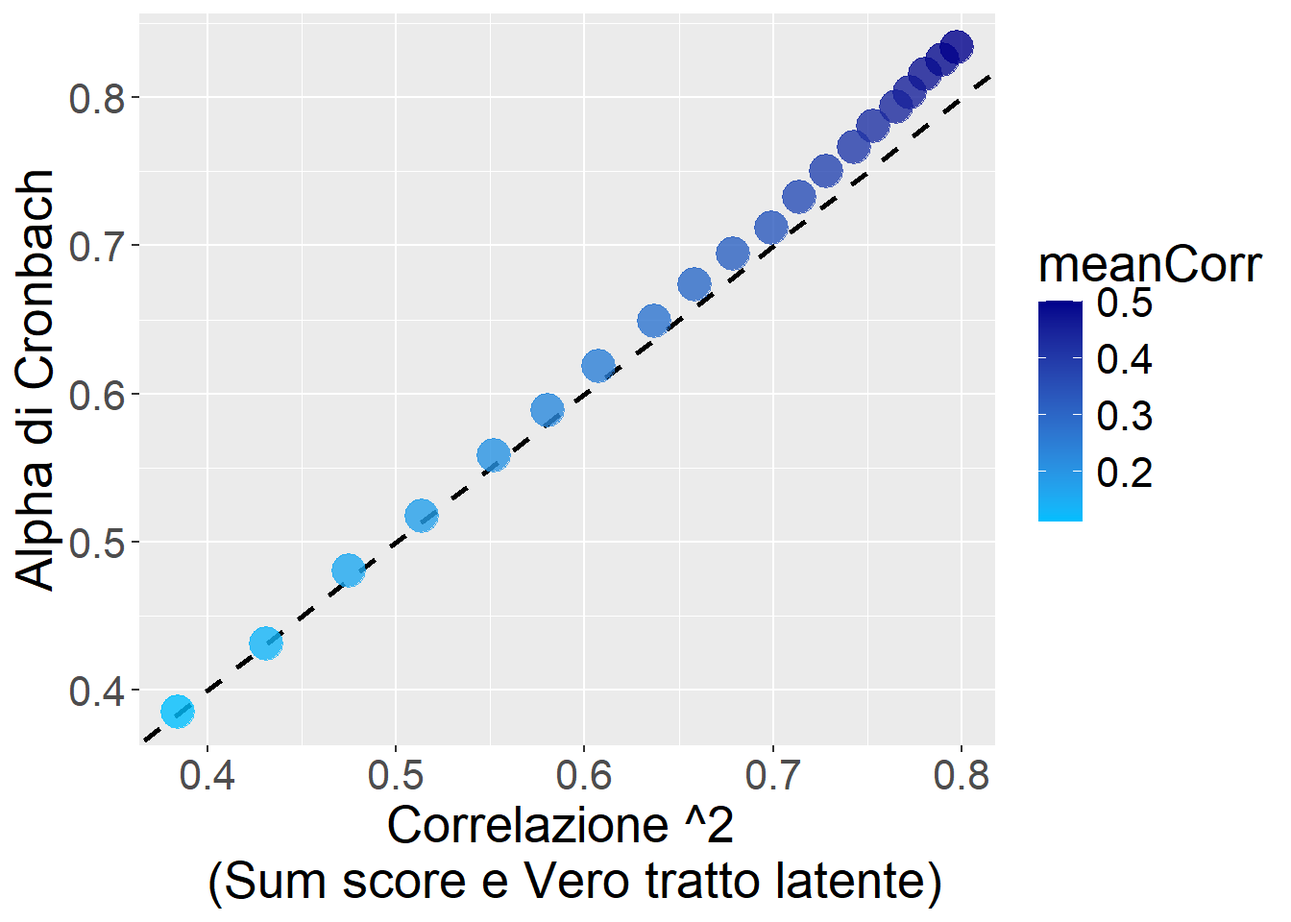
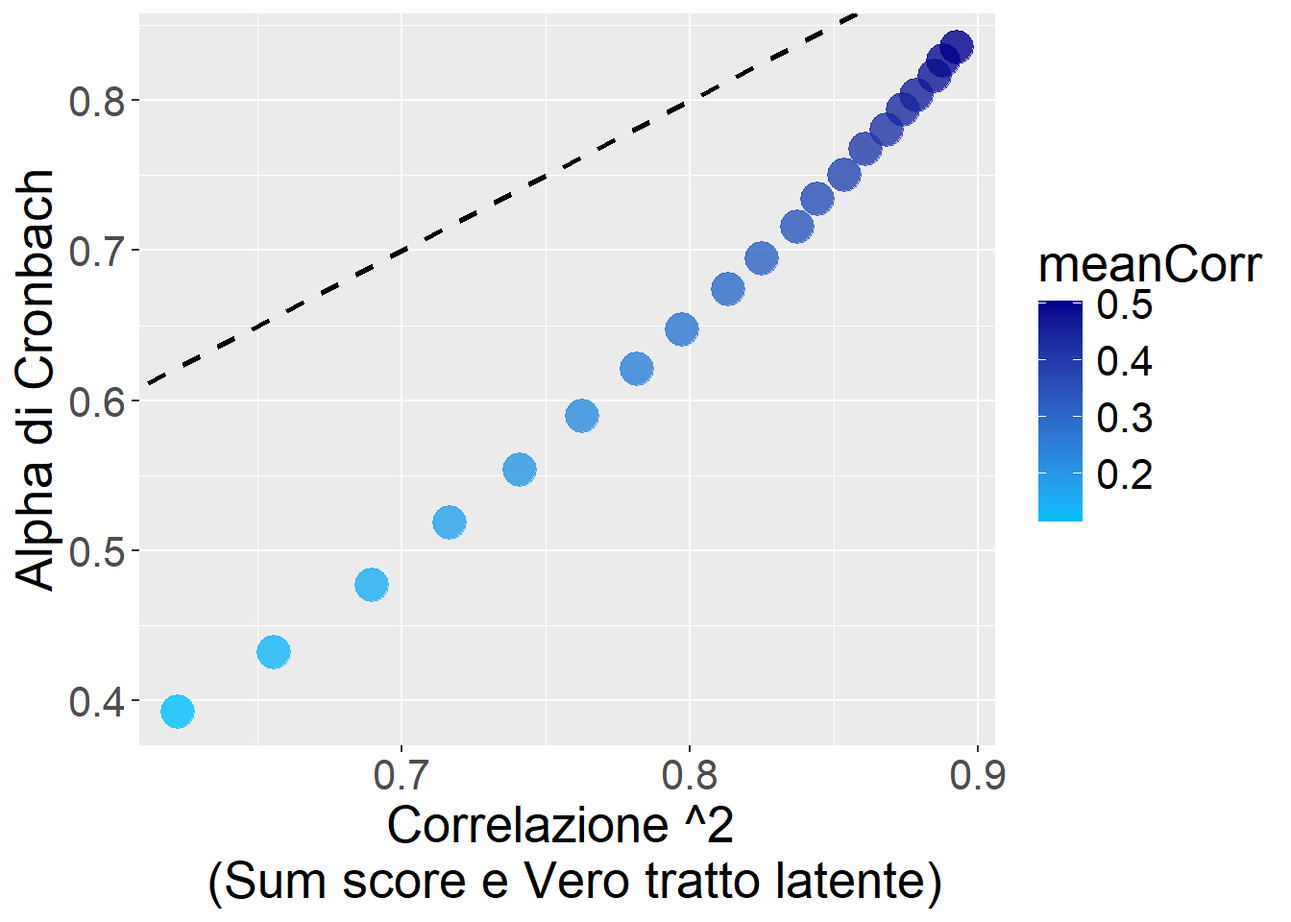
update

diff --git a/alpha/alphaOrdinal.html b/alpha/alphaOrdinal.html
@@ -141,51 +141,83 @@ pre > code.sourceCode > span > a:first-child::before { text-decoration: underlin
 <section id="possiamo-ignorare-la-natura-ordinale-degli-item" class="level2">
 <h2 class="anchored" data-anchor-id="possiamo-ignorare-la-natura-ordinale-degli-item">Possiamo ignorare la natura ordinale degli item?</h2>
 <p>Possiamo utilizzare il semplice Alpha di Cronbach, così com’è, anche sui dati ordinali? Poniamo che quelle sopra siano davvero le <em>thresholds</em>. Poniamo di avere k = 5 item con un continuum sottostante variamente correlato (vedi figura sotto).</p>
-<p>Come si vede dal grafico, anche trascurando del tutto la natura ordinale degli item, l’Alpha di Cronbach non va poi così male: sovrastima un po’ per i valori più alti, ma riflette abbastanza bene l’effettiva correlazione tra il <em>Sum score</em> (col <em>Factor score</em> è più o meno uguale) e il <em>Vero tratto latente</em>.</p>
+<p>Come si vede dal grafico, anche trascurando del tutto la natura ordinale degli item, apparentemente l’Alpha di Cronbach non va così male: sovrastima un po’ per i valori più alti, ma riflette abbastanza bene l’effettiva correlazione tra il <em>Sum score dei dati ordinali</em> e il <em>Vero tratto latente</em>.</p>
 <div class="cell">
 <details class="code-fold">
 <summary>Show the code</summary>
 <div class="sourceCode cell-code" id="cb1"><pre class="sourceCode r code-with-copy"><code class="sourceCode r"><span id="cb1-1"><a href="#cb1-1" aria-hidden="true" tabindex="-1"></a><span class="fu">library</span>(lavaan)</span>
 <span id="cb1-2"><a href="#cb1-2" aria-hidden="true" tabindex="-1"></a><span class="fu">library</span>(psych)</span>
 <span id="cb1-3"><a href="#cb1-3" aria-hidden="true" tabindex="-1"></a>meanLoad <span class="ot">=</span> <span class="fu">seq</span>(.<span class="dv">4</span>,<span class="fl">1.2</span>,<span class="at">length.out=</span><span class="dv">20</span>)</span>
-<span id="cb1-4"><a href="#cb1-4" aria-hidden="true" tabindex="-1"></a>res1 <span class="ot">=</span> <span class="fu">data.frame</span>(<span class="at">meanLoad=</span>meanLoad,<span class="at">meanCorr=</span><span class="cn">NA</span>,<span class="at">AlphaCronbach=</span><span class="cn">NA</span>,<span class="at">VarVera=</span><span class="cn">NA</span>)</span>
-<span id="cb1-5"><a href="#cb1-5" aria-hidden="true" tabindex="-1"></a><span class="cf">for</span>(i <span class="cf">in</span> <span class="dv">1</span><span class="sc">:</span><span class="fu">nrow</span>(res1)){</span>
-<span id="cb1-6"><a href="#cb1-6" aria-hidden="true" tabindex="-1"></a>  </span>
-<span id="cb1-7"><a href="#cb1-7" aria-hidden="true" tabindex="-1"></a>  N <span class="ot">=</span> <span class="fl">1e5</span></span>
-<span id="cb1-8"><a href="#cb1-8" aria-hidden="true" tabindex="-1"></a>  X_true <span class="ot">=</span> <span class="fu">rnorm</span>(N,<span class="dv">0</span>,<span class="dv">1</span>)</span>
-<span id="cb1-9"><a href="#cb1-9" aria-hidden="true" tabindex="-1"></a>  </span>
-<span id="cb1-10"><a href="#cb1-10" aria-hidden="true" tabindex="-1"></a>  X1 <span class="ot">=</span> <span class="fu">scale</span>(res1<span class="sc">$</span>meanLoad[i]<span class="sc">*</span>X_true <span class="sc">+</span> <span class="fu">rnorm</span>(N,<span class="dv">0</span>,<span class="dv">1</span>))</span>
-<span id="cb1-11"><a href="#cb1-11" aria-hidden="true" tabindex="-1"></a>  X2 <span class="ot">=</span> <span class="fu">scale</span>(res1<span class="sc">$</span>meanLoad[i]<span class="sc">*</span>X_true <span class="sc">+</span> <span class="fu">rnorm</span>(N,<span class="dv">0</span>,<span class="dv">1</span>))</span>
-<span id="cb1-12"><a href="#cb1-12" aria-hidden="true" tabindex="-1"></a>  X3 <span class="ot">=</span> <span class="fu">scale</span>(res1<span class="sc">$</span>meanLoad[i]<span class="sc">*</span>X_true <span class="sc">+</span> <span class="fu">rnorm</span>(N,<span class="dv">0</span>,<span class="dv">1</span>))</span>
-<span id="cb1-13"><a href="#cb1-13" aria-hidden="true" tabindex="-1"></a>  X4 <span class="ot">=</span> <span class="fu">scale</span>(res1<span class="sc">$</span>meanLoad[i]<span class="sc">*</span>X_true <span class="sc">+</span> <span class="fu">rnorm</span>(N,<span class="dv">0</span>,<span class="dv">1</span>))</span>
-<span id="cb1-14"><a href="#cb1-14" aria-hidden="true" tabindex="-1"></a>  X5 <span class="ot">=</span> <span class="fu">scale</span>(res1<span class="sc">$</span>meanLoad[i]<span class="sc">*</span>X_true <span class="sc">+</span> <span class="fu">rnorm</span>(N,<span class="dv">0</span>,<span class="dv">1</span>))</span>
-<span id="cb1-15"><a href="#cb1-15" aria-hidden="true" tabindex="-1"></a>  </span>
-<span id="cb1-16"><a href="#cb1-16" aria-hidden="true" tabindex="-1"></a>  x1 <span class="ot">=</span> <span class="fu">as.numeric</span>(<span class="fu">cut</span>(X1,<span class="at">breaks=</span><span class="fu">c</span>(<span class="sc">-</span><span class="cn">Inf</span>,<span class="sc">-</span><span class="fl">0.2</span>,<span class="fl">0.2</span>,<span class="fl">1.2</span>,<span class="cn">Inf</span>),<span class="at">labels=</span><span class="fu">c</span>(<span class="dv">1</span>,<span class="dv">2</span>,<span class="dv">3</span>,<span class="dv">4</span>)))</span>
-<span id="cb1-17"><a href="#cb1-17" aria-hidden="true" tabindex="-1"></a>  x2 <span class="ot">=</span> <span class="fu">as.numeric</span>(<span class="fu">cut</span>(X2,<span class="at">breaks=</span><span class="fu">c</span>(<span class="sc">-</span><span class="cn">Inf</span>,<span class="sc">-</span><span class="fl">0.2</span>,<span class="fl">0.2</span>,<span class="fl">1.2</span>,<span class="cn">Inf</span>),<span class="at">labels=</span><span class="fu">c</span>(<span class="dv">1</span>,<span class="dv">2</span>,<span class="dv">3</span>,<span class="dv">4</span>)))</span>
-<span id="cb1-18"><a href="#cb1-18" aria-hidden="true" tabindex="-1"></a>  x3 <span class="ot">=</span> <span class="fu">as.numeric</span>(<span class="fu">cut</span>(X3,<span class="at">breaks=</span><span class="fu">c</span>(<span class="sc">-</span><span class="cn">Inf</span>,<span class="sc">-</span><span class="fl">0.2</span>,<span class="fl">0.2</span>,<span class="fl">1.2</span>,<span class="cn">Inf</span>),<span class="at">labels=</span><span class="fu">c</span>(<span class="dv">1</span>,<span class="dv">2</span>,<span class="dv">3</span>,<span class="dv">4</span>)))</span>
-<span id="cb1-19"><a href="#cb1-19" aria-hidden="true" tabindex="-1"></a>  x4 <span class="ot">=</span> <span class="fu">as.numeric</span>(<span class="fu">cut</span>(X4,<span class="at">breaks=</span><span class="fu">c</span>(<span class="sc">-</span><span class="cn">Inf</span>,<span class="sc">-</span><span class="fl">0.2</span>,<span class="fl">0.2</span>,<span class="fl">1.2</span>,<span class="cn">Inf</span>),<span class="at">labels=</span><span class="fu">c</span>(<span class="dv">1</span>,<span class="dv">2</span>,<span class="dv">3</span>,<span class="dv">4</span>)))</span>
-<span id="cb1-20"><a href="#cb1-20" aria-hidden="true" tabindex="-1"></a>  x5 <span class="ot">=</span> <span class="fu">as.numeric</span>(<span class="fu">cut</span>(X5,<span class="at">breaks=</span><span class="fu">c</span>(<span class="sc">-</span><span class="cn">Inf</span>,<span class="sc">-</span><span class="fl">0.2</span>,<span class="fl">0.2</span>,<span class="fl">1.2</span>,<span class="cn">Inf</span>),<span class="at">labels=</span><span class="fu">c</span>(<span class="dv">1</span>,<span class="dv">2</span>,<span class="dv">3</span>,<span class="dv">4</span>)))</span>
+<span id="cb1-4"><a href="#cb1-4" aria-hidden="true" tabindex="-1"></a>res1 <span class="ot">=</span> <span class="fu">data.frame</span>(<span class="at">meanLoad=</span>meanLoad,</span>
+<span id="cb1-5"><a href="#cb1-5" aria-hidden="true" tabindex="-1"></a>                  <span class="at">meanCorr=</span><span class="cn">NA</span>,</span>
+<span id="cb1-6"><a href="#cb1-6" aria-hidden="true" tabindex="-1"></a>                  <span class="at">AlphaCronbach=</span><span class="cn">NA</span>,</span>
+<span id="cb1-7"><a href="#cb1-7" aria-hidden="true" tabindex="-1"></a>                  <span class="at">AlphaCronbachPolyc=</span><span class="cn">NA</span>,</span>
+<span id="cb1-8"><a href="#cb1-8" aria-hidden="true" tabindex="-1"></a>                  <span class="at">VarVera=</span><span class="cn">NA</span>,</span>
+<span id="cb1-9"><a href="#cb1-9" aria-hidden="true" tabindex="-1"></a>                  <span class="at">VarOrd=</span><span class="cn">NA</span>)</span>
+<span id="cb1-10"><a href="#cb1-10" aria-hidden="true" tabindex="-1"></a><span class="cf">for</span>(i <span class="cf">in</span> <span class="dv">1</span><span class="sc">:</span><span class="fu">nrow</span>(res1)){</span>
+<span id="cb1-11"><a href="#cb1-11" aria-hidden="true" tabindex="-1"></a>  </span>
+<span id="cb1-12"><a href="#cb1-12" aria-hidden="true" tabindex="-1"></a>  N <span class="ot">=</span> <span class="fl">1e5</span></span>
+<span id="cb1-13"><a href="#cb1-13" aria-hidden="true" tabindex="-1"></a>  X_true <span class="ot">=</span> <span class="fu">rnorm</span>(N,<span class="dv">0</span>,<span class="dv">1</span>)</span>
+<span id="cb1-14"><a href="#cb1-14" aria-hidden="true" tabindex="-1"></a>  </span>
+<span id="cb1-15"><a href="#cb1-15" aria-hidden="true" tabindex="-1"></a>  X1 <span class="ot">=</span> <span class="fu">scale</span>(res1<span class="sc">$</span>meanLoad[i]<span class="sc">*</span>X_true <span class="sc">+</span> <span class="fu">rnorm</span>(N,<span class="dv">0</span>,<span class="dv">1</span>))</span>
+<span id="cb1-16"><a href="#cb1-16" aria-hidden="true" tabindex="-1"></a>  X2 <span class="ot">=</span> <span class="fu">scale</span>(res1<span class="sc">$</span>meanLoad[i]<span class="sc">*</span>X_true <span class="sc">+</span> <span class="fu">rnorm</span>(N,<span class="dv">0</span>,<span class="dv">1</span>))</span>
+<span id="cb1-17"><a href="#cb1-17" aria-hidden="true" tabindex="-1"></a>  X3 <span class="ot">=</span> <span class="fu">scale</span>(res1<span class="sc">$</span>meanLoad[i]<span class="sc">*</span>X_true <span class="sc">+</span> <span class="fu">rnorm</span>(N,<span class="dv">0</span>,<span class="dv">1</span>))</span>
+<span id="cb1-18"><a href="#cb1-18" aria-hidden="true" tabindex="-1"></a>  X4 <span class="ot">=</span> <span class="fu">scale</span>(res1<span class="sc">$</span>meanLoad[i]<span class="sc">*</span>X_true <span class="sc">+</span> <span class="fu">rnorm</span>(N,<span class="dv">0</span>,<span class="dv">1</span>))</span>
+<span id="cb1-19"><a href="#cb1-19" aria-hidden="true" tabindex="-1"></a>  X5 <span class="ot">=</span> <span class="fu">scale</span>(res1<span class="sc">$</span>meanLoad[i]<span class="sc">*</span>X_true <span class="sc">+</span> <span class="fu">rnorm</span>(N,<span class="dv">0</span>,<span class="dv">1</span>))</span>
+<span id="cb1-20"><a href="#cb1-20" aria-hidden="true" tabindex="-1"></a>  res1<span class="sc">$</span>VarVera[i] <span class="ot">=</span> <span class="fu">cor</span>(<span class="fu">rowSums</span>(<span class="fu">cbind</span>(X1,X2,X3,X4,X5)),X_true)<span class="sc">^</span><span class="dv">2</span></span>
 <span id="cb1-21"><a href="#cb1-21" aria-hidden="true" tabindex="-1"></a>  </span>
-<span id="cb1-22"><a href="#cb1-22" aria-hidden="true" tabindex="-1"></a>  df <span class="ot">=</span> <span class="fu">data.frame</span>(x1,x2,x3,x4,x5)</span>
-<span id="cb1-23"><a href="#cb1-23" aria-hidden="true" tabindex="-1"></a>  res1<span class="sc">$</span>meanCorr[i] <span class="ot">=</span> <span class="fu">mean</span>(<span class="fu">cor</span>(df)[<span class="fu">lower.tri</span>(<span class="fu">cor</span>(df))])</span>
-<span id="cb1-24"><a href="#cb1-24" aria-hidden="true" tabindex="-1"></a>  <span class="co">#model = "X_latent =~ x1+x2+x3+x4+x5"</span></span>
-<span id="cb1-25"><a href="#cb1-25" aria-hidden="true" tabindex="-1"></a>  <span class="co">#fit = cfa(model, df)</span></span>
-<span id="cb1-26"><a href="#cb1-26" aria-hidden="true" tabindex="-1"></a>  res1<span class="sc">$</span>AlphaCronbach[i] <span class="ot">=</span> psych<span class="sc">::</span><span class="fu">alpha</span>(df)<span class="sc">$</span>total<span class="sc">$</span>raw_alpha</span>
-<span id="cb1-27"><a href="#cb1-27" aria-hidden="true" tabindex="-1"></a>  res1<span class="sc">$</span>VarVera[i] <span class="ot">=</span> <span class="fu">cor</span>(<span class="fu">rowSums</span>(df),X_true)<span class="sc">^</span><span class="dv">2</span></span>
-<span id="cb1-28"><a href="#cb1-28" aria-hidden="true" tabindex="-1"></a>}</span>
-<span id="cb1-29"><a href="#cb1-29" aria-hidden="true" tabindex="-1"></a></span>
-<span id="cb1-30"><a href="#cb1-30" aria-hidden="true" tabindex="-1"></a><span class="fu">ggplot</span>(res1,<span class="fu">aes</span>(<span class="at">x=</span>VarVera,<span class="at">y=</span>AlphaCronbach,<span class="at">color=</span>meanCorr))<span class="sc">+</span></span>
-<span id="cb1-31"><a href="#cb1-31" aria-hidden="true" tabindex="-1"></a>  <span class="fu">geom_abline</span>(<span class="at">slope =</span> <span class="dv">1</span>, <span class="at">intercept =</span> <span class="dv">0</span>, <span class="at">linetype =</span> <span class="st">"dashed"</span>, <span class="at">size=</span><span class="dv">1</span>)<span class="sc">+</span></span>
-<span id="cb1-32"><a href="#cb1-32" aria-hidden="true" tabindex="-1"></a>  <span class="fu">scale_color_gradient</span>(<span class="at">low =</span> <span class="st">"deepskyblue"</span>, <span class="at">high =</span> <span class="st">"blue4"</span>)<span class="sc">+</span></span>
-<span id="cb1-33"><a href="#cb1-33" aria-hidden="true" tabindex="-1"></a>  <span class="fu">geom_point</span>(<span class="at">size=</span><span class="dv">6</span>,<span class="at">alpha=</span>.<span class="dv">8</span>)<span class="sc">+</span></span>
-<span id="cb1-34"><a href="#cb1-34" aria-hidden="true" tabindex="-1"></a>  <span class="fu">theme</span>(<span class="at">text=</span><span class="fu">element_text</span>(<span class="at">size=</span><span class="dv">20</span>))<span class="sc">+</span></span>
-<span id="cb1-35"><a href="#cb1-35" aria-hidden="true" tabindex="-1"></a>  <span class="fu">xlab</span>(<span class="st">"Correlazione ^2 </span><span class="sc">\n</span><span class="st"> (Sum score e Vero tratto latente)"</span>)<span class="sc">+</span></span>
-<span id="cb1-36"><a href="#cb1-36" aria-hidden="true" tabindex="-1"></a>  <span class="fu">ylab</span>(<span class="st">"Alpha di Cronbach"</span>)</span></code><button title="Copy to Clipboard" class="code-copy-button"><i class="bi"></i></button></pre></div>
+<span id="cb1-22"><a href="#cb1-22" aria-hidden="true" tabindex="-1"></a>  x1 <span class="ot">=</span> <span class="fu">as.numeric</span>(<span class="fu">cut</span>(X1,<span class="at">breaks=</span><span class="fu">c</span>(<span class="sc">-</span><span class="cn">Inf</span>,<span class="sc">-</span><span class="fl">0.2</span>,<span class="fl">0.2</span>,<span class="fl">1.2</span>,<span class="cn">Inf</span>),<span class="at">labels=</span><span class="fu">c</span>(<span class="dv">1</span>,<span class="dv">2</span>,<span class="dv">3</span>,<span class="dv">4</span>)))</span>
+<span id="cb1-23"><a href="#cb1-23" aria-hidden="true" tabindex="-1"></a>  x2 <span class="ot">=</span> <span class="fu">as.numeric</span>(<span class="fu">cut</span>(X2,<span class="at">breaks=</span><span class="fu">c</span>(<span class="sc">-</span><span class="cn">Inf</span>,<span class="sc">-</span><span class="fl">0.2</span>,<span class="fl">0.2</span>,<span class="fl">1.2</span>,<span class="cn">Inf</span>),<span class="at">labels=</span><span class="fu">c</span>(<span class="dv">1</span>,<span class="dv">2</span>,<span class="dv">3</span>,<span class="dv">4</span>)))</span>
+<span id="cb1-24"><a href="#cb1-24" aria-hidden="true" tabindex="-1"></a>  x3 <span class="ot">=</span> <span class="fu">as.numeric</span>(<span class="fu">cut</span>(X3,<span class="at">breaks=</span><span class="fu">c</span>(<span class="sc">-</span><span class="cn">Inf</span>,<span class="sc">-</span><span class="fl">0.2</span>,<span class="fl">0.2</span>,<span class="fl">1.2</span>,<span class="cn">Inf</span>),<span class="at">labels=</span><span class="fu">c</span>(<span class="dv">1</span>,<span class="dv">2</span>,<span class="dv">3</span>,<span class="dv">4</span>)))</span>
+<span id="cb1-25"><a href="#cb1-25" aria-hidden="true" tabindex="-1"></a>  x4 <span class="ot">=</span> <span class="fu">as.numeric</span>(<span class="fu">cut</span>(X4,<span class="at">breaks=</span><span class="fu">c</span>(<span class="sc">-</span><span class="cn">Inf</span>,<span class="sc">-</span><span class="fl">0.2</span>,<span class="fl">0.2</span>,<span class="fl">1.2</span>,<span class="cn">Inf</span>),<span class="at">labels=</span><span class="fu">c</span>(<span class="dv">1</span>,<span class="dv">2</span>,<span class="dv">3</span>,<span class="dv">4</span>)))</span>
+<span id="cb1-26"><a href="#cb1-26" aria-hidden="true" tabindex="-1"></a>  x5 <span class="ot">=</span> <span class="fu">as.numeric</span>(<span class="fu">cut</span>(X5,<span class="at">breaks=</span><span class="fu">c</span>(<span class="sc">-</span><span class="cn">Inf</span>,<span class="sc">-</span><span class="fl">0.2</span>,<span class="fl">0.2</span>,<span class="fl">1.2</span>,<span class="cn">Inf</span>),<span class="at">labels=</span><span class="fu">c</span>(<span class="dv">1</span>,<span class="dv">2</span>,<span class="dv">3</span>,<span class="dv">4</span>)))</span>
+<span id="cb1-27"><a href="#cb1-27" aria-hidden="true" tabindex="-1"></a>  res1<span class="sc">$</span>VarOrd[i] <span class="ot">=</span> <span class="fu">cor</span>(<span class="fu">rowSums</span>(<span class="fu">cbind</span>(x1,x2,x3,x4,x5)),X_true)<span class="sc">^</span><span class="dv">2</span></span>
+<span id="cb1-28"><a href="#cb1-28" aria-hidden="true" tabindex="-1"></a>  </span>
+<span id="cb1-29"><a href="#cb1-29" aria-hidden="true" tabindex="-1"></a>  df <span class="ot">=</span> <span class="fu">data.frame</span>(x1,x2,x3,x4,x5)</span>
+<span id="cb1-30"><a href="#cb1-30" aria-hidden="true" tabindex="-1"></a>  res1<span class="sc">$</span>meanCorr[i] <span class="ot">=</span> <span class="fu">mean</span>(<span class="fu">cor</span>(df)[<span class="fu">lower.tri</span>(<span class="fu">cor</span>(df))])</span>
+<span id="cb1-31"><a href="#cb1-31" aria-hidden="true" tabindex="-1"></a>  <span class="co">#model = "X_latent =~ x1+x2+x3+x4+x5"</span></span>
+<span id="cb1-32"><a href="#cb1-32" aria-hidden="true" tabindex="-1"></a>  <span class="co">#fit = cfa(model, df)</span></span>
+<span id="cb1-33"><a href="#cb1-33" aria-hidden="true" tabindex="-1"></a>  res1<span class="sc">$</span>AlphaCronbach[i] <span class="ot">=</span> psych<span class="sc">::</span><span class="fu">alpha</span>(df)<span class="sc">$</span>total<span class="sc">$</span>raw_alpha</span>
+<span id="cb1-34"><a href="#cb1-34" aria-hidden="true" tabindex="-1"></a>  res1<span class="sc">$</span>AlphaCronbachPolyc[i] <span class="ot">=</span> <span class="fu">alpha</span>(<span class="fu">polychoric</span>(df)<span class="sc">$</span>rho)<span class="sc">$</span>total<span class="sc">$</span>raw_alpha</span>
+<span id="cb1-35"><a href="#cb1-35" aria-hidden="true" tabindex="-1"></a>}</span></code><button title="Copy to Clipboard" class="code-copy-button"><i class="bi"></i></button></pre></div>
+</details>
+</div>
+<div class="cell">
+<details class="code-fold">
+<summary>Show the code</summary>
+<div class="sourceCode cell-code" id="cb2"><pre class="sourceCode r code-with-copy"><code class="sourceCode r"><span id="cb2-1"><a href="#cb2-1" aria-hidden="true" tabindex="-1"></a><span class="fu">ggplot</span>(res1,<span class="fu">aes</span>(<span class="at">x=</span>VarOrd,<span class="at">y=</span>AlphaCronbach,<span class="at">color=</span>meanCorr))<span class="sc">+</span></span>
+<span id="cb2-2"><a href="#cb2-2" aria-hidden="true" tabindex="-1"></a>  <span class="fu">geom_abline</span>(<span class="at">slope =</span> <span class="dv">1</span>, <span class="at">intercept =</span> <span class="dv">0</span>, <span class="at">linetype =</span> <span class="st">"dashed"</span>, <span class="at">size=</span><span class="dv">1</span>)<span class="sc">+</span></span>
+<span id="cb2-3"><a href="#cb2-3" aria-hidden="true" tabindex="-1"></a>  <span class="fu">scale_color_gradient</span>(<span class="at">low =</span> <span class="st">"deepskyblue"</span>, <span class="at">high =</span> <span class="st">"blue4"</span>)<span class="sc">+</span></span>
+<span id="cb2-4"><a href="#cb2-4" aria-hidden="true" tabindex="-1"></a>  <span class="fu">geom_point</span>(<span class="at">size=</span><span class="dv">6</span>,<span class="at">alpha=</span>.<span class="dv">8</span>)<span class="sc">+</span></span>
+<span id="cb2-5"><a href="#cb2-5" aria-hidden="true" tabindex="-1"></a>  <span class="fu">theme</span>(<span class="at">text=</span><span class="fu">element_text</span>(<span class="at">size=</span><span class="dv">20</span>))<span class="sc">+</span></span>
+<span id="cb2-6"><a href="#cb2-6" aria-hidden="true" tabindex="-1"></a>  <span class="fu">xlab</span>(<span class="st">"Correlazione ^2 </span><span class="sc">\n</span><span class="st"> (Sum score ordinale e Tratto latente)"</span>)<span class="sc">+</span></span>
+<span id="cb2-7"><a href="#cb2-7" aria-hidden="true" tabindex="-1"></a>  <span class="fu">ylab</span>(<span class="st">"Alpha di Cronbach 'ignorante'"</span>)</span></code><button title="Copy to Clipboard" class="code-copy-button"><i class="bi"></i></button></pre></div>
 </details>
 <div class="cell-output-display">
 <div>
 <figure class="figure">
-<p><img src="alphaOrdinal_files/figure-html/simOrdinalDisregarded1-1.png" class="img-fluid figure-img" width="672"></p>
+<p><img src="alphaOrdinal_files/figure-html/unnamed-chunk-2-1.png" class="img-fluid figure-img" width="672"></p>
+</figure>
+</div>
+</div>
+</div>
+<p><strong>TUTTAVIA</strong> quella qui sopra è comunque, complessivamente, una sottostima del vero <strong>“potenziale”</strong> di attendibilità se trattassimo e gestissimo i dati ordinali come tali.</p>
+<p>La seguente figura mostra l’Alpha di Cronbach calcolato prima in funzione della <em>vera</em> correlazione tra il Sum score originale (<em>del continuum sottostante</em>, cioè prima di essere reso ordinale) e il <em>vero tratto latente</em>:</p>
+<div class="cell">
+<details class="code-fold">
+<summary>Show the code</summary>
+<div class="sourceCode cell-code" id="cb3"><pre class="sourceCode r code-with-copy"><code class="sourceCode r"><span id="cb3-1"><a href="#cb3-1" aria-hidden="true" tabindex="-1"></a><span class="fu">ggplot</span>(res1,<span class="fu">aes</span>(<span class="at">x=</span>VarVera,<span class="at">y=</span>AlphaCronbach,<span class="at">color=</span>meanCorr))<span class="sc">+</span></span>
+<span id="cb3-2"><a href="#cb3-2" aria-hidden="true" tabindex="-1"></a>  <span class="fu">geom_abline</span>(<span class="at">slope =</span> <span class="dv">1</span>, <span class="at">intercept =</span> <span class="dv">0</span>, <span class="at">linetype =</span> <span class="st">"dashed"</span>, <span class="at">size=</span><span class="dv">1</span>)<span class="sc">+</span></span>
+<span id="cb3-3"><a href="#cb3-3" aria-hidden="true" tabindex="-1"></a>  <span class="fu">scale_color_gradient</span>(<span class="at">low =</span> <span class="st">"deepskyblue"</span>, <span class="at">high =</span> <span class="st">"blue4"</span>)<span class="sc">+</span></span>
+<span id="cb3-4"><a href="#cb3-4" aria-hidden="true" tabindex="-1"></a>  <span class="fu">geom_point</span>(<span class="at">size=</span><span class="dv">6</span>,<span class="at">alpha=</span>.<span class="dv">8</span>)<span class="sc">+</span></span>
+<span id="cb3-5"><a href="#cb3-5" aria-hidden="true" tabindex="-1"></a>  <span class="fu">theme</span>(<span class="at">text=</span><span class="fu">element_text</span>(<span class="at">size=</span><span class="dv">20</span>))<span class="sc">+</span></span>
+<span id="cb3-6"><a href="#cb3-6" aria-hidden="true" tabindex="-1"></a>  <span class="fu">xlab</span>(<span class="st">"Correlazione ^2 </span><span class="sc">\n</span><span class="st"> (Sum score continuum sottostante </span><span class="sc">\n</span><span class="st"> e Tratto latente)"</span>)<span class="sc">+</span></span>
+<span id="cb3-7"><a href="#cb3-7" aria-hidden="true" tabindex="-1"></a>  <span class="fu">ylab</span>(<span class="st">"Alpha di Cronbach 'ignorante'"</span>)</span></code><button title="Copy to Clipboard" class="code-copy-button"><i class="bi"></i></button></pre></div>
+</details>
+<div class="cell-output-display">
+<div>
+<figure class="figure">
+<p><img src="alphaOrdinal_files/figure-html/unnamed-chunk-3-1.png" class="img-fluid figure-img" width="672"></p>
 </figure>
 </div>
 </div>
@@ -195,55 +227,25 @@ pre > code.sourceCode > span > a:first-child::before { text-decoration: underlin
 <h2 class="anchored" data-anchor-id="e-le-correlazioni-policoriche">E le correlazioni policoriche?</h2>
 <p>Un’opzione spesso usata è calcolare l’Alpha di Cronbach usando le correlazioni policoriche tra i dati ordinali.</p>
 <div class="cell">
-<div class="sourceCode cell-code" id="cb2"><pre class="sourceCode r code-with-copy"><code class="sourceCode r"><span id="cb2-1"><a href="#cb2-1" aria-hidden="true" tabindex="-1"></a><span class="co"># Esempio calcolo Alpha con correlazioni policoriche</span></span>
-<span id="cb2-2"><a href="#cb2-2" aria-hidden="true" tabindex="-1"></a><span class="fu">library</span>(psych)</span>
-<span id="cb2-3"><a href="#cb2-3" aria-hidden="true" tabindex="-1"></a>rho <span class="ot">=</span> <span class="fu">polychoric</span>(df)<span class="sc">$</span>rho</span>
-<span id="cb2-4"><a href="#cb2-4" aria-hidden="true" tabindex="-1"></a><span class="fu">alpha</span>(rho)<span class="sc">$</span>total</span></code><button title="Copy to Clipboard" class="code-copy-button"><i class="bi"></i></button></pre></div>
+<div class="sourceCode cell-code" id="cb4"><pre class="sourceCode r code-with-copy"><code class="sourceCode r"><span id="cb4-1"><a href="#cb4-1" aria-hidden="true" tabindex="-1"></a><span class="co"># Esempio calcolo Alpha con correlazioni policoriche</span></span>
+<span id="cb4-2"><a href="#cb4-2" aria-hidden="true" tabindex="-1"></a><span class="fu">library</span>(psych)</span>
+<span id="cb4-3"><a href="#cb4-3" aria-hidden="true" tabindex="-1"></a>rho <span class="ot">=</span> <span class="fu">polychoric</span>(df)<span class="sc">$</span>rho</span>
+<span id="cb4-4"><a href="#cb4-4" aria-hidden="true" tabindex="-1"></a><span class="fu">alpha</span>(rho)<span class="sc">$</span>total</span></code><button title="Copy to Clipboard" class="code-copy-button"><i class="bi"></i></button></pre></div>
 <div class="cell-output cell-output-stdout">
 <pre><code> raw_alpha std.alpha   G6(smc) average_r      S/N  median_r
- 0.8775198 0.8775198 0.8514571 0.5889708 7.164585 0.5892574</code></pre>
+ 0.8767998 0.8767998 0.8506103 0.5873523 7.116873 0.5873429</code></pre>
 </div>
 </div>
-<p>Ma ho brutte notizie… <strong>QUI FORSE C’È QUALCOSA DI SBAGLIATO! WORK IN PROGRESS. DATE UN’OCCHIATA AL CODICE E DITEMI, POSSIBILMENTE</strong> Questo Alpha di Cronbach sovrastima in modo abbastanza sistematico l’effettiva correlazione tra il <em>Sum score</em> e il <em>Vero tratto latente</em> (con il <em>Factor score</em> è più o meno lo stesso, anche se per tempi computazionali <strong>non</strong> ho provato il <em>Factor score</em> con <code>ordered=TRUE</code>).</p>
+<p>Funziona!</p>
+<p>Questo Alpha di Cronbach coglie bene la correlazione tra il <em>Sum score del continuum sottostante (nella realtà non osservato)</em> e il <em>Vero tratto latente</em> (con il <em>Factor score</em> è più o meno lo stesso, tuttavia per tempi computazionali <strong>non</strong> ho provato il <em>Factor score</em> con <code>ordered=TRUE</code>).</p>
 <div class="cell">
-<details class="code-fold">
-<summary>Show the code</summary>
-<div class="sourceCode cell-code" id="cb4"><pre class="sourceCode r code-with-copy"><code class="sourceCode r"><span id="cb4-1"><a href="#cb4-1" aria-hidden="true" tabindex="-1"></a>meanLoad <span class="ot">=</span> <span class="fu">seq</span>(.<span class="dv">4</span>,<span class="fl">1.2</span>,<span class="at">length.out=</span><span class="dv">20</span>)</span>
-<span id="cb4-2"><a href="#cb4-2" aria-hidden="true" tabindex="-1"></a>res2 <span class="ot">=</span> <span class="fu">data.frame</span>(<span class="at">meanLoad=</span>meanLoad,<span class="at">meanCorr=</span><span class="cn">NA</span>,<span class="at">AlphaCronbach=</span><span class="cn">NA</span>,<span class="at">VarVera=</span><span class="cn">NA</span>)</span>
-<span id="cb4-3"><a href="#cb4-3" aria-hidden="true" tabindex="-1"></a><span class="cf">for</span>(i <span class="cf">in</span> <span class="dv">1</span><span class="sc">:</span><span class="fu">nrow</span>(res2)){</span>
-<span id="cb4-4"><a href="#cb4-4" aria-hidden="true" tabindex="-1"></a>  </span>
-<span id="cb4-5"><a href="#cb4-5" aria-hidden="true" tabindex="-1"></a>  N <span class="ot">=</span> <span class="fl">1e5</span></span>
-<span id="cb4-6"><a href="#cb4-6" aria-hidden="true" tabindex="-1"></a>  X_true <span class="ot">=</span> <span class="fu">rnorm</span>(N,<span class="dv">0</span>,<span class="dv">1</span>)</span>
-<span id="cb4-7"><a href="#cb4-7" aria-hidden="true" tabindex="-1"></a>  </span>
-<span id="cb4-8"><a href="#cb4-8" aria-hidden="true" tabindex="-1"></a>  X1 <span class="ot">=</span> <span class="fu">scale</span>(res2<span class="sc">$</span>meanLoad[i]<span class="sc">*</span>X_true <span class="sc">+</span> <span class="fu">rnorm</span>(N,<span class="dv">0</span>,<span class="dv">1</span>))</span>
-<span id="cb4-9"><a href="#cb4-9" aria-hidden="true" tabindex="-1"></a>  X2 <span class="ot">=</span> <span class="fu">scale</span>(res2<span class="sc">$</span>meanLoad[i]<span class="sc">*</span>X_true <span class="sc">+</span> <span class="fu">rnorm</span>(N,<span class="dv">0</span>,<span class="dv">1</span>))</span>
-<span id="cb4-10"><a href="#cb4-10" aria-hidden="true" tabindex="-1"></a>  X3 <span class="ot">=</span> <span class="fu">scale</span>(res2<span class="sc">$</span>meanLoad[i]<span class="sc">*</span>X_true <span class="sc">+</span> <span class="fu">rnorm</span>(N,<span class="dv">0</span>,<span class="dv">1</span>))</span>
-<span id="cb4-11"><a href="#cb4-11" aria-hidden="true" tabindex="-1"></a>  X4 <span class="ot">=</span> <span class="fu">scale</span>(res2<span class="sc">$</span>meanLoad[i]<span class="sc">*</span>X_true <span class="sc">+</span> <span class="fu">rnorm</span>(N,<span class="dv">0</span>,<span class="dv">1</span>))</span>
-<span id="cb4-12"><a href="#cb4-12" aria-hidden="true" tabindex="-1"></a>  X5 <span class="ot">=</span> <span class="fu">scale</span>(res2<span class="sc">$</span>meanLoad[i]<span class="sc">*</span>X_true <span class="sc">+</span> <span class="fu">rnorm</span>(N,<span class="dv">0</span>,<span class="dv">1</span>))</span>
-<span id="cb4-13"><a href="#cb4-13" aria-hidden="true" tabindex="-1"></a>  </span>
-<span id="cb4-14"><a href="#cb4-14" aria-hidden="true" tabindex="-1"></a>  x1 <span class="ot">=</span> <span class="fu">as.numeric</span>(<span class="fu">cut</span>(X1,<span class="at">breaks=</span><span class="fu">c</span>(<span class="sc">-</span><span class="cn">Inf</span>,<span class="sc">-</span><span class="fl">0.2</span>,<span class="fl">0.2</span>,<span class="fl">1.2</span>,<span class="cn">Inf</span>),<span class="at">labels=</span><span class="fu">c</span>(<span class="dv">1</span>,<span class="dv">2</span>,<span class="dv">3</span>,<span class="dv">4</span>)))</span>
-<span id="cb4-15"><a href="#cb4-15" aria-hidden="true" tabindex="-1"></a>  x2 <span class="ot">=</span> <span class="fu">as.numeric</span>(<span class="fu">cut</span>(X2,<span class="at">breaks=</span><span class="fu">c</span>(<span class="sc">-</span><span class="cn">Inf</span>,<span class="sc">-</span><span class="fl">0.2</span>,<span class="fl">0.2</span>,<span class="fl">1.2</span>,<span class="cn">Inf</span>),<span class="at">labels=</span><span class="fu">c</span>(<span class="dv">1</span>,<span class="dv">2</span>,<span class="dv">3</span>,<span class="dv">4</span>)))</span>
-<span id="cb4-16"><a href="#cb4-16" aria-hidden="true" tabindex="-1"></a>  x3 <span class="ot">=</span> <span class="fu">as.numeric</span>(<span class="fu">cut</span>(X3,<span class="at">breaks=</span><span class="fu">c</span>(<span class="sc">-</span><span class="cn">Inf</span>,<span class="sc">-</span><span class="fl">0.2</span>,<span class="fl">0.2</span>,<span class="fl">1.2</span>,<span class="cn">Inf</span>),<span class="at">labels=</span><span class="fu">c</span>(<span class="dv">1</span>,<span class="dv">2</span>,<span class="dv">3</span>,<span class="dv">4</span>)))</span>
-<span id="cb4-17"><a href="#cb4-17" aria-hidden="true" tabindex="-1"></a>  x4 <span class="ot">=</span> <span class="fu">as.numeric</span>(<span class="fu">cut</span>(X4,<span class="at">breaks=</span><span class="fu">c</span>(<span class="sc">-</span><span class="cn">Inf</span>,<span class="sc">-</span><span class="fl">0.2</span>,<span class="fl">0.2</span>,<span class="fl">1.2</span>,<span class="cn">Inf</span>),<span class="at">labels=</span><span class="fu">c</span>(<span class="dv">1</span>,<span class="dv">2</span>,<span class="dv">3</span>,<span class="dv">4</span>)))</span>
-<span id="cb4-18"><a href="#cb4-18" aria-hidden="true" tabindex="-1"></a>  x5 <span class="ot">=</span> <span class="fu">as.numeric</span>(<span class="fu">cut</span>(X5,<span class="at">breaks=</span><span class="fu">c</span>(<span class="sc">-</span><span class="cn">Inf</span>,<span class="sc">-</span><span class="fl">0.2</span>,<span class="fl">0.2</span>,<span class="fl">1.2</span>,<span class="cn">Inf</span>),<span class="at">labels=</span><span class="fu">c</span>(<span class="dv">1</span>,<span class="dv">2</span>,<span class="dv">3</span>,<span class="dv">4</span>)))</span>
-<span id="cb4-19"><a href="#cb4-19" aria-hidden="true" tabindex="-1"></a>  </span>
-<span id="cb4-20"><a href="#cb4-20" aria-hidden="true" tabindex="-1"></a>  df <span class="ot">=</span> <span class="fu">data.frame</span>(x1,x2,x3,x4,x5)</span>
-<span id="cb4-21"><a href="#cb4-21" aria-hidden="true" tabindex="-1"></a>  res2<span class="sc">$</span>meanCorr[i] <span class="ot">=</span> <span class="fu">mean</span>(<span class="fu">cor</span>(df)[<span class="fu">lower.tri</span>(<span class="fu">cor</span>(df))])</span>
-<span id="cb4-22"><a href="#cb4-22" aria-hidden="true" tabindex="-1"></a>  <span class="co">#model = "X_latent =~ x1+x2+x3+x4+x5"</span></span>
-<span id="cb4-23"><a href="#cb4-23" aria-hidden="true" tabindex="-1"></a>  <span class="co">#fit = cfa(model, df, ordered=T)</span></span>
-<span id="cb4-24"><a href="#cb4-24" aria-hidden="true" tabindex="-1"></a>  res2<span class="sc">$</span>AlphaCronbach[i] <span class="ot">=</span> <span class="fu">alpha</span>(<span class="fu">polychoric</span>(df)<span class="sc">$</span>rho)<span class="sc">$</span>total<span class="sc">$</span>raw_alpha</span>
-<span id="cb4-25"><a href="#cb4-25" aria-hidden="true" tabindex="-1"></a>  res2<span class="sc">$</span>VarVera[i] <span class="ot">=</span> <span class="fu">cor</span>(<span class="fu">rowSums</span>(df),X_true)<span class="sc">^</span><span class="dv">2</span></span>
-<span id="cb4-26"><a href="#cb4-26" aria-hidden="true" tabindex="-1"></a>  <span class="co">#res2$VarVera[i] = cor(predict(fit),X_true)^2</span></span>
-<span id="cb4-27"><a href="#cb4-27" aria-hidden="true" tabindex="-1"></a>}</span>
-<span id="cb4-28"><a href="#cb4-28" aria-hidden="true" tabindex="-1"></a></span>
-<span id="cb4-29"><a href="#cb4-29" aria-hidden="true" tabindex="-1"></a><span class="fu">ggplot</span>(res2,<span class="fu">aes</span>(<span class="at">x=</span>VarVera,<span class="at">y=</span>AlphaCronbach,<span class="at">color=</span>meanCorr))<span class="sc">+</span></span>
-<span id="cb4-30"><a href="#cb4-30" aria-hidden="true" tabindex="-1"></a>  <span class="fu">geom_abline</span>(<span class="at">slope =</span> <span class="dv">1</span>, <span class="at">intercept =</span> <span class="dv">0</span>, <span class="at">linetype =</span> <span class="st">"dashed"</span>, <span class="at">size=</span><span class="dv">1</span>)<span class="sc">+</span></span>
-<span id="cb4-31"><a href="#cb4-31" aria-hidden="true" tabindex="-1"></a>  <span class="fu">scale_color_gradient</span>(<span class="at">low =</span> <span class="st">"deepskyblue"</span>, <span class="at">high =</span> <span class="st">"blue4"</span>)<span class="sc">+</span></span>
-<span id="cb4-32"><a href="#cb4-32" aria-hidden="true" tabindex="-1"></a>  <span class="fu">geom_point</span>(<span class="at">size=</span><span class="dv">6</span>,<span class="at">alpha=</span>.<span class="dv">8</span>)<span class="sc">+</span></span>
-<span id="cb4-33"><a href="#cb4-33" aria-hidden="true" tabindex="-1"></a>  <span class="fu">theme</span>(<span class="at">text=</span><span class="fu">element_text</span>(<span class="at">size=</span><span class="dv">20</span>))<span class="sc">+</span></span>
-<span id="cb4-34"><a href="#cb4-34" aria-hidden="true" tabindex="-1"></a>  <span class="fu">xlab</span>(<span class="st">"Correlazione ^2 </span><span class="sc">\n</span><span class="st"> (Sum score e Vero tratto latente)"</span>)<span class="sc">+</span></span>
-<span id="cb4-35"><a href="#cb4-35" aria-hidden="true" tabindex="-1"></a>  <span class="fu">ylab</span>(<span class="st">"Alpha di Cronbach (polychoric)"</span>)</span></code><button title="Copy to Clipboard" class="code-copy-button"><i class="bi"></i></button></pre></div>
-</details>
+<div class="sourceCode cell-code" id="cb6"><pre class="sourceCode r code-with-copy"><code class="sourceCode r"><span id="cb6-1"><a href="#cb6-1" aria-hidden="true" tabindex="-1"></a><span class="fu">ggplot</span>(res1,<span class="fu">aes</span>(<span class="at">x=</span>VarVera,<span class="at">y=</span>AlphaCronbachPolyc,<span class="at">color=</span>meanCorr))<span class="sc">+</span></span>
+<span id="cb6-2"><a href="#cb6-2" aria-hidden="true" tabindex="-1"></a>  <span class="fu">geom_abline</span>(<span class="at">slope =</span> <span class="dv">1</span>, <span class="at">intercept =</span> <span class="dv">0</span>, <span class="at">linetype =</span> <span class="st">"dashed"</span>, <span class="at">size=</span><span class="dv">1</span>)<span class="sc">+</span></span>
+<span id="cb6-3"><a href="#cb6-3" aria-hidden="true" tabindex="-1"></a>  <span class="fu">scale_color_gradient</span>(<span class="at">low =</span> <span class="st">"deepskyblue"</span>, <span class="at">high =</span> <span class="st">"blue4"</span>)<span class="sc">+</span></span>
+<span id="cb6-4"><a href="#cb6-4" aria-hidden="true" tabindex="-1"></a>  <span class="fu">geom_point</span>(<span class="at">size=</span><span class="dv">6</span>,<span class="at">alpha=</span>.<span class="dv">8</span>)<span class="sc">+</span></span>
+<span id="cb6-5"><a href="#cb6-5" aria-hidden="true" tabindex="-1"></a>  <span class="fu">theme</span>(<span class="at">text=</span><span class="fu">element_text</span>(<span class="at">size=</span><span class="dv">20</span>))<span class="sc">+</span></span>
+<span id="cb6-6"><a href="#cb6-6" aria-hidden="true" tabindex="-1"></a>  <span class="fu">xlab</span>(<span class="st">"Correlazione ^2 </span><span class="sc">\n</span><span class="st"> (Sum score continuum sottostante </span><span class="sc">\n</span><span class="st"> e Tratto latente)"</span>)<span class="sc">+</span></span>
+<span id="cb6-7"><a href="#cb6-7" aria-hidden="true" tabindex="-1"></a>  <span class="fu">ylab</span>(<span class="st">"Alpha di Cronbach 'Polychoric'"</span>)</span></code><button title="Copy to Clipboard" class="code-copy-button"><i class="bi"></i></button></pre></div>
 <div class="cell-output-display">
 <div>
 <figure class="figure">
@@ -252,6 +254,7 @@ pre > code.sourceCode > span > a:first-child::before { text-decoration: underlin
 </div>
 </div>
 </div>
+<p>Però <strong>ATTENZIONE</strong>: questo <em>Alpha di Cronbach Policorico</em> è informativo <strong>SOLO</strong> se poi trattiamo gli item come realmente ordinali, ad esempio con un modello <strong>SEM</strong> specificando <code>ordered=TRUE</code>, altrimenti, se poi facciamo il semplice <em>Sum score dei dati ordinali</em>, allora l’attendibilità di quest’ultimo <strong>NON</strong> è quella suggerita dall’<em>Alpha di Cronbach Policorico</em>, ma più bassa.</p>
 <p><a href="alphaPowerSEM.html" target="_blank">(vai alla terza parte, su SEM e potenza)</a></p>
 </section>
 
